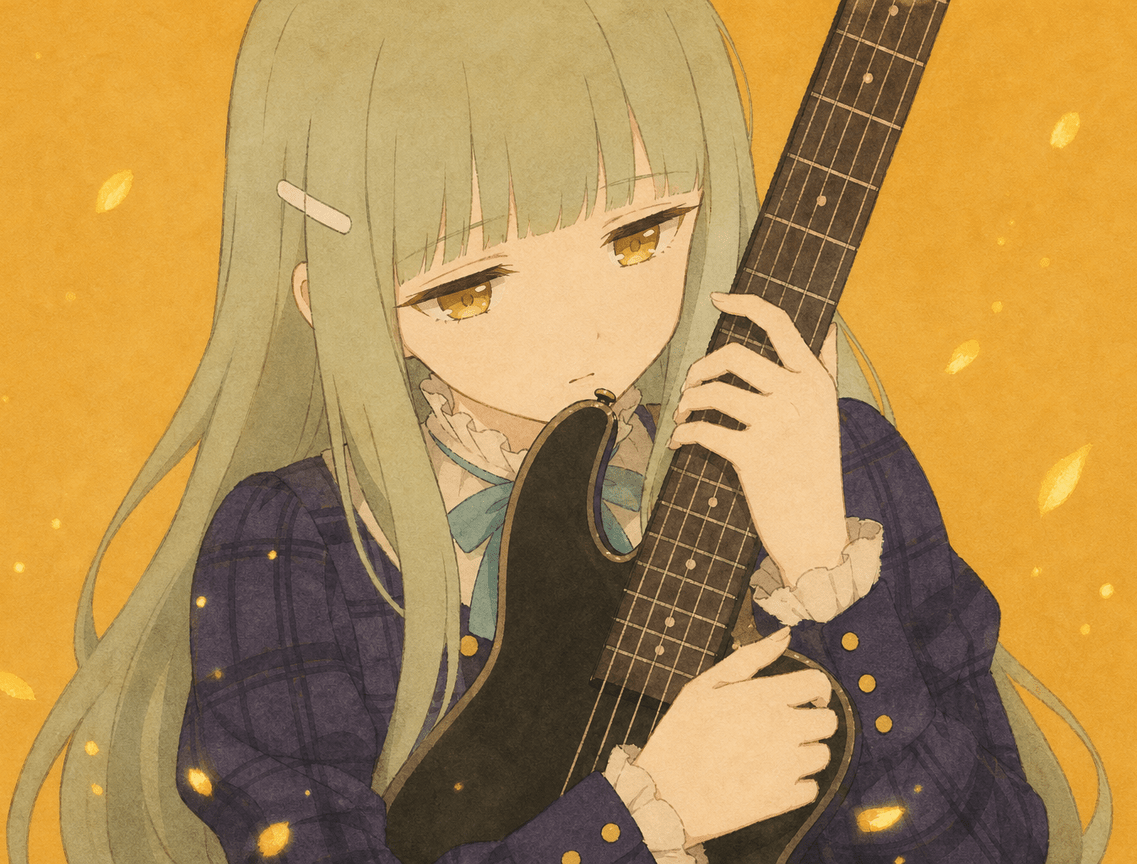
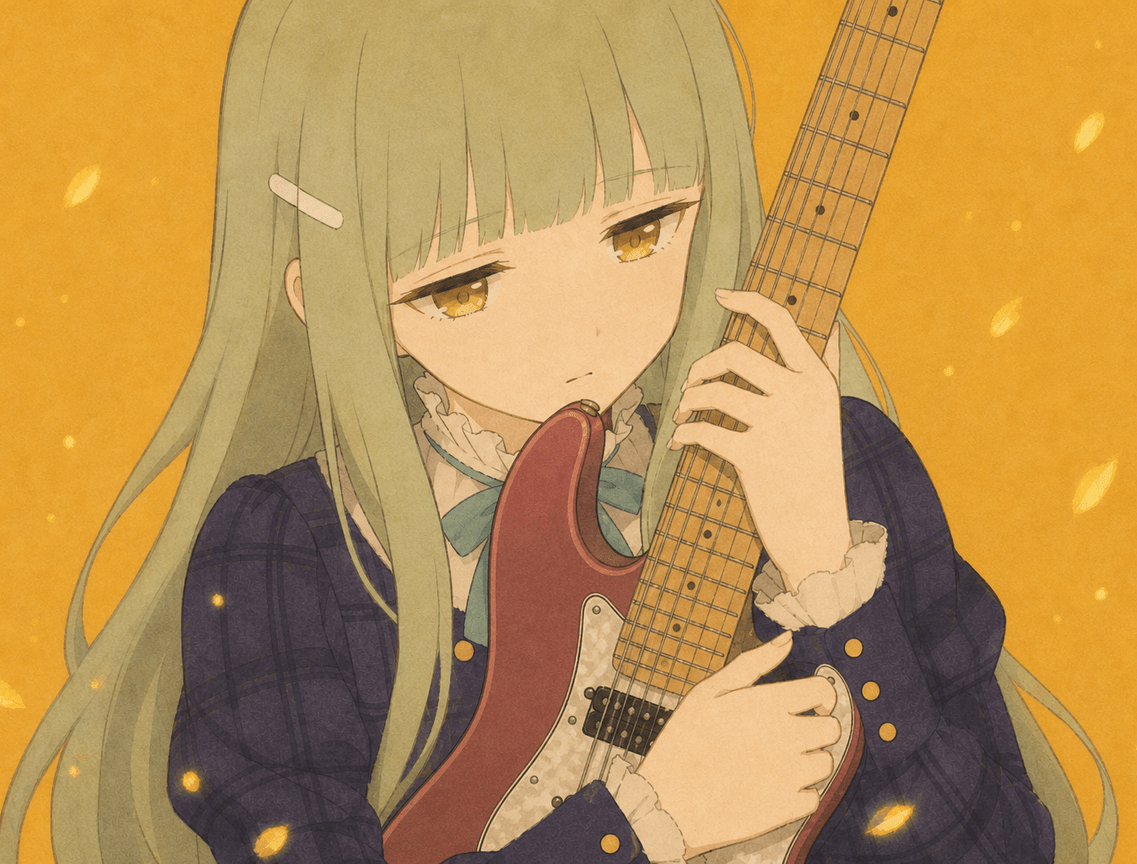
更新卡图

diff --git a/src/ModEntry.cs b/src/ModEntry.cs
@@ -17,7 +17,7 @@ namespace MzmChar;
 public static class ModEntry
 {
     public const string ModId   = "MzmChar";
-    public const string Version = "0.2.2";
+    public const string Version = "0.2.3";
     public static HarmonyLib.Harmony? Harmony { get; private set; }
 
     public static void OnModLoaded()
